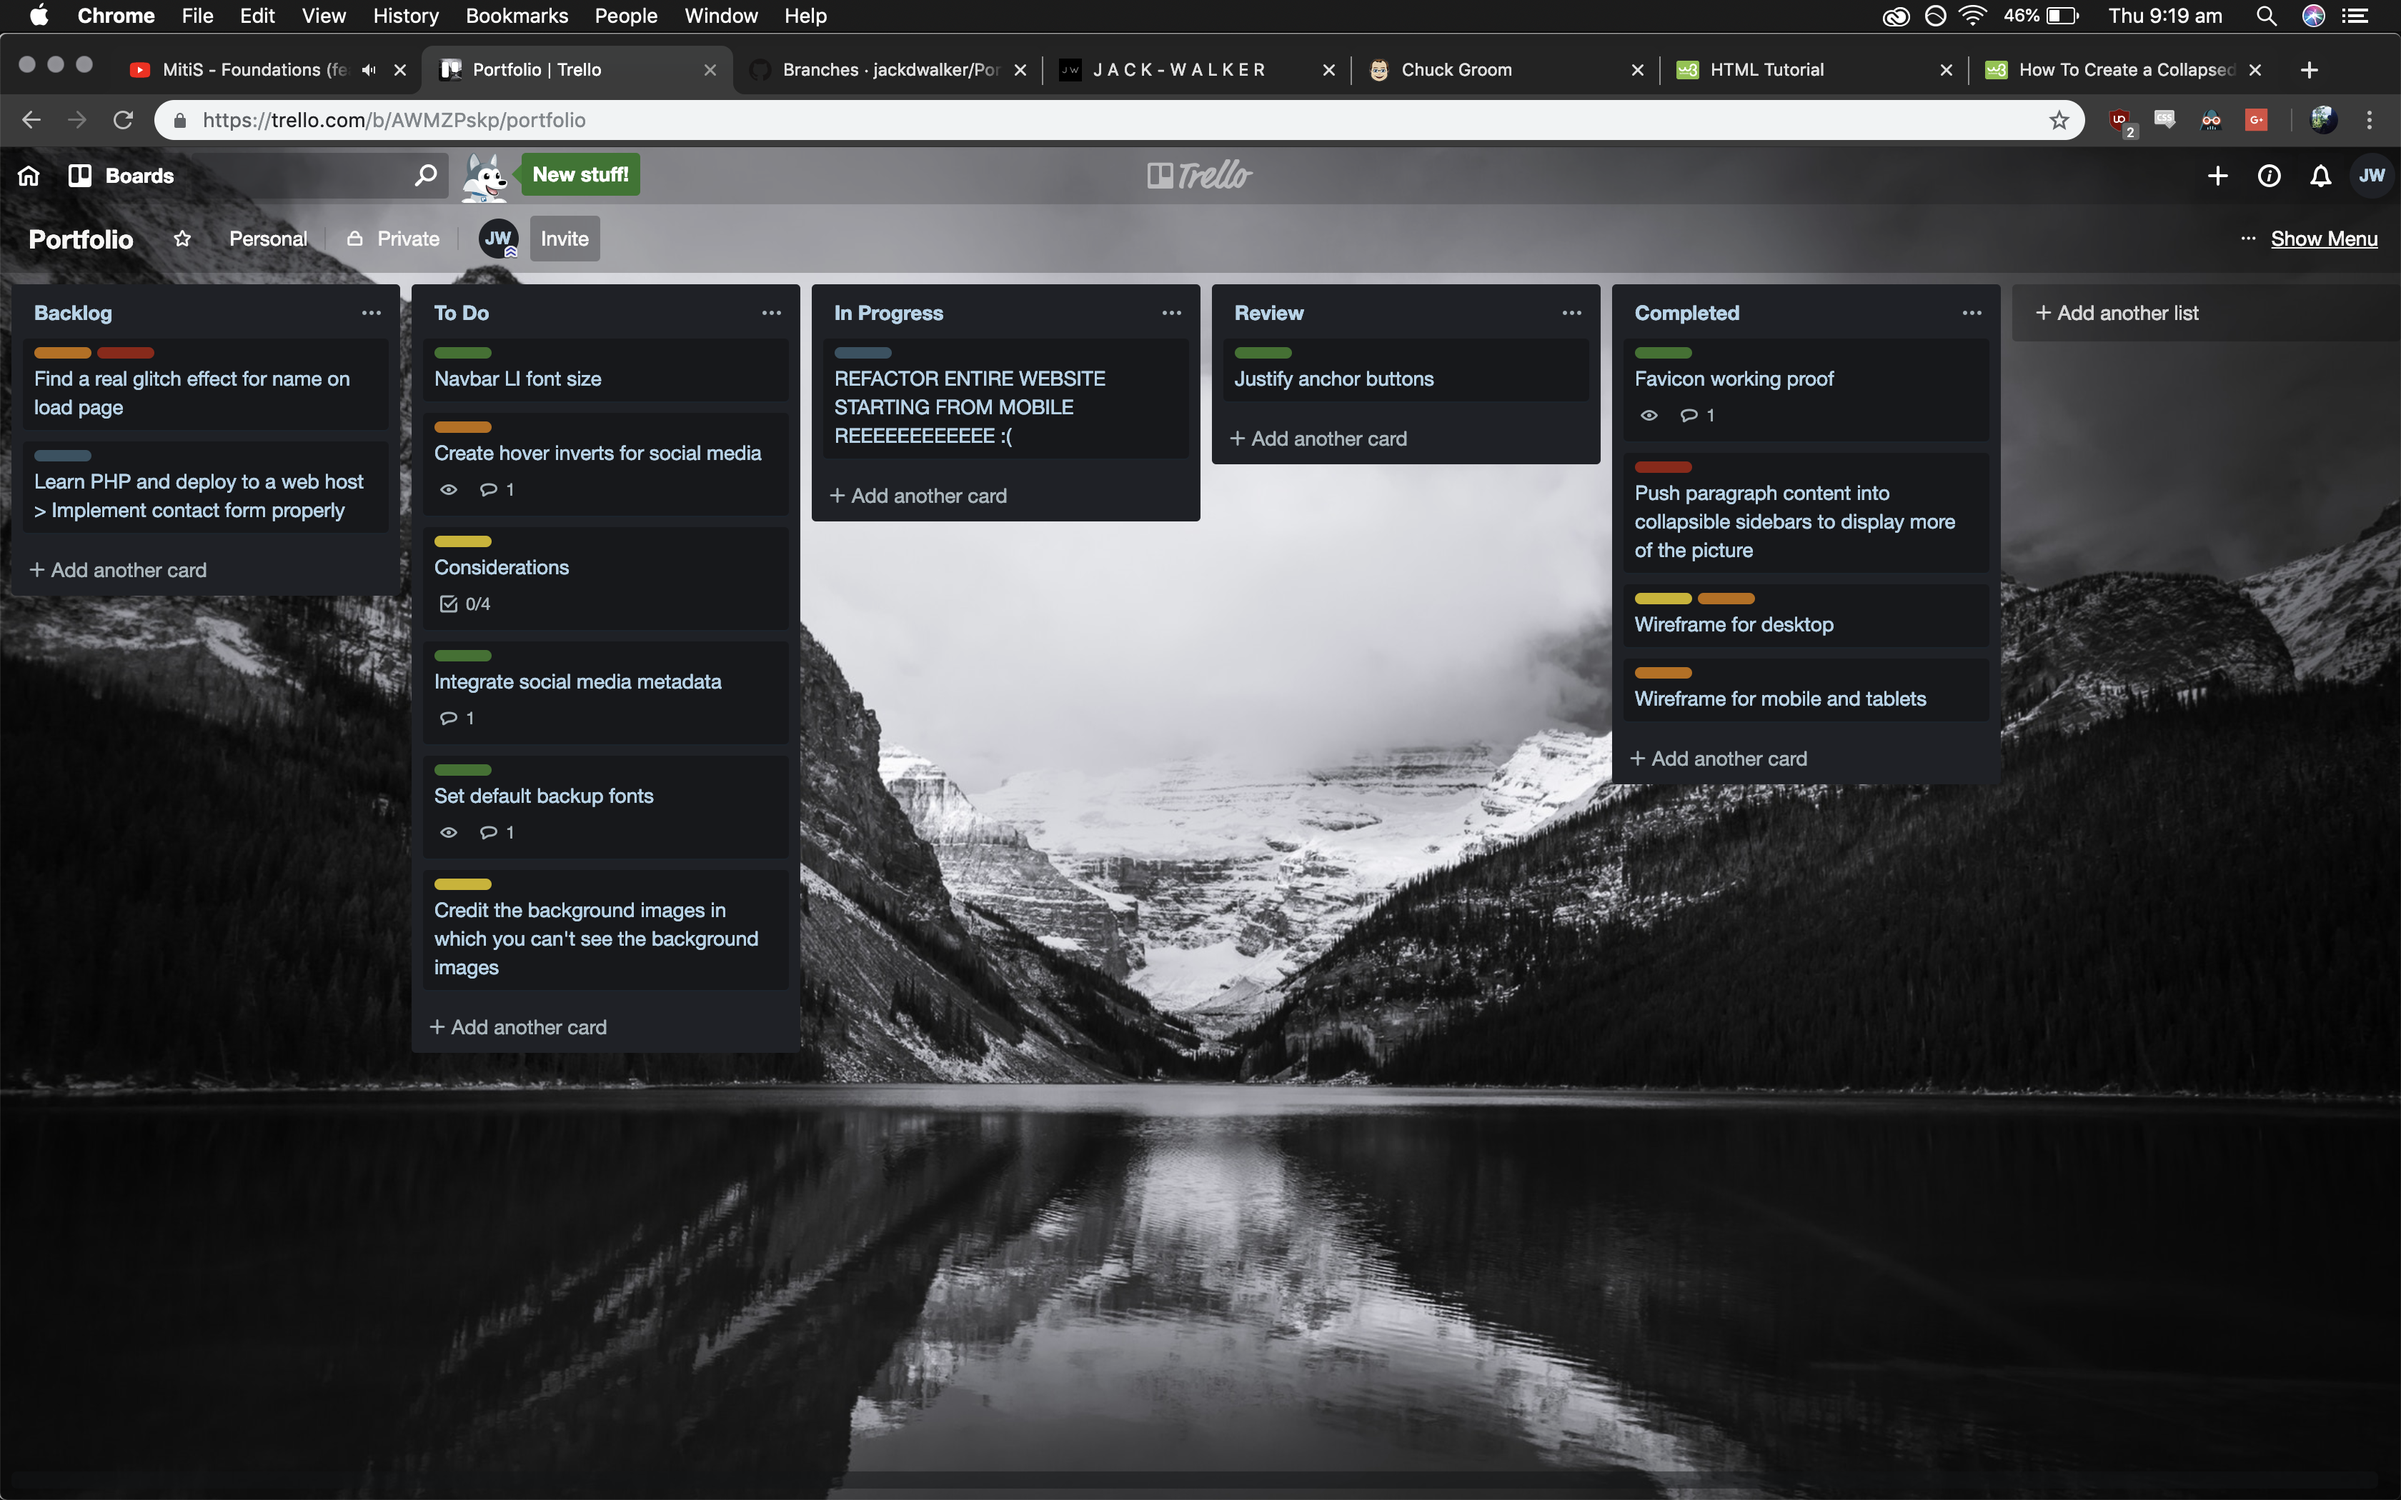
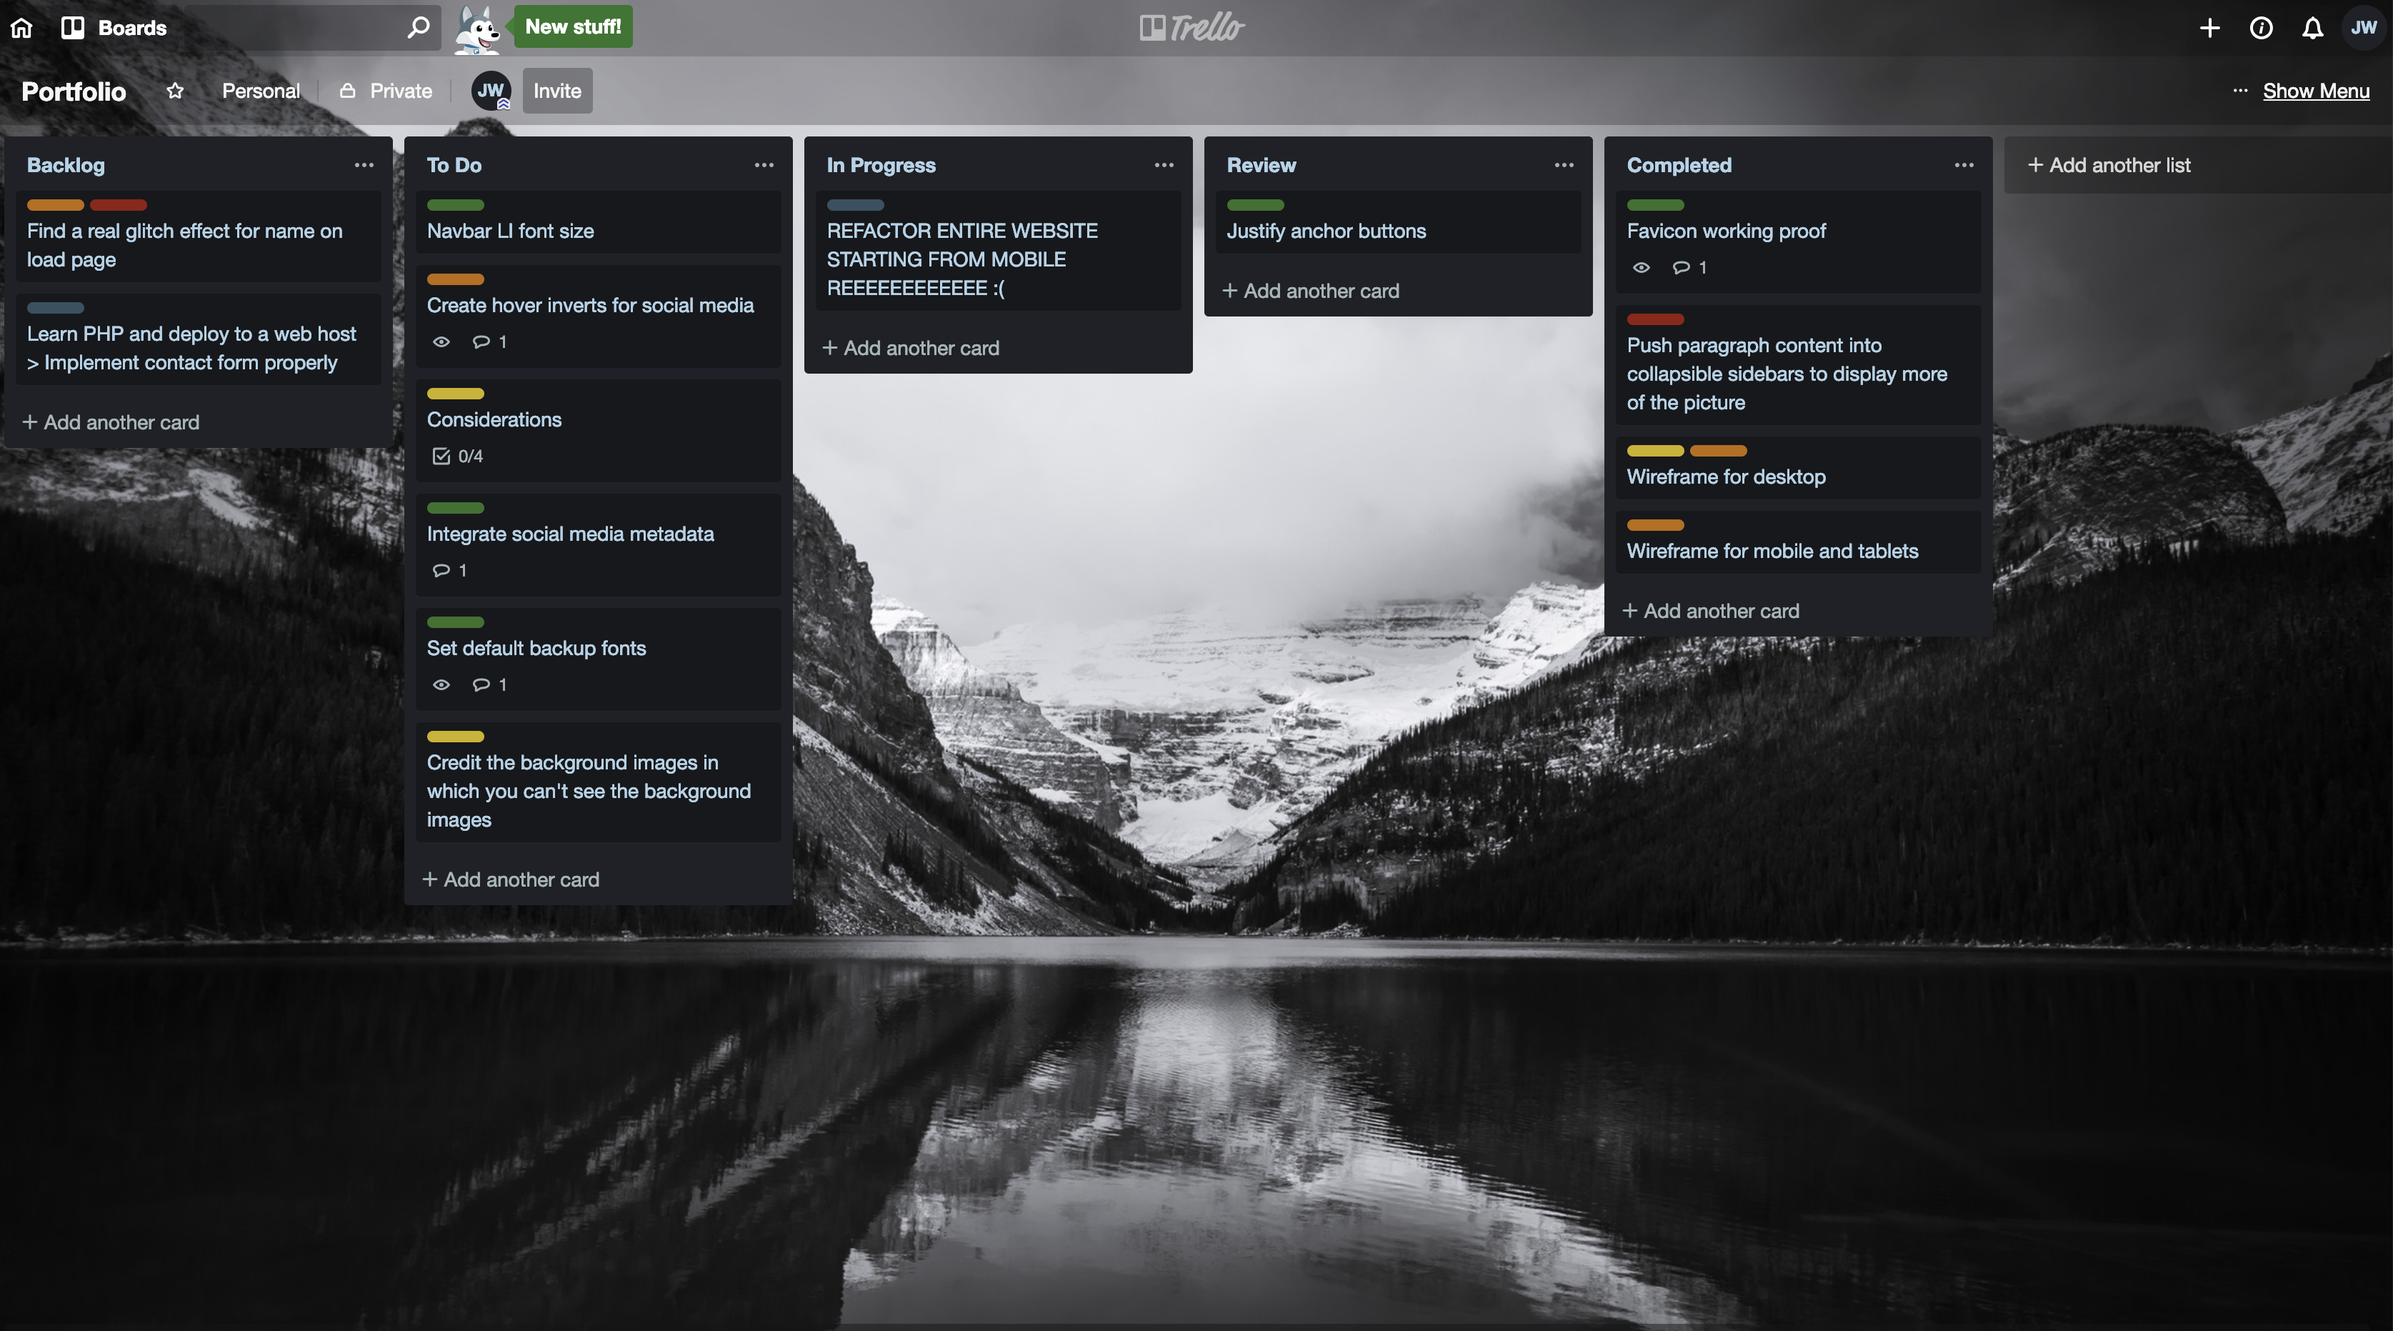
README done except short answer

diff --git a/README.md b/README.md
@@ -104,9 +104,41 @@ I came into the bootcamp with a small amount of background knowledge in HTML/CSS
 So I went back to the drawing board and made wireframes detailing how I wanted to restructure my website to work on both mobile and tablet devices. I started from scratch refactoring my desktop CSS into SCSS, and re-writing my whole HTML base for a mobile device and working up from there. 
 
 ### Project Timeline
+- Mar 11: Moodboarding
+- Mar 12-15: Initial desktop site design
+- Mar 18-19: Final touches on first version of desktop site
+- Mar 20: Wireframing and beginning to visualise how to make my website responsive
+- Mar 21: Began the process of building mobile-up and refactoring my CSS into SCSS
+- Mar 22-23: Most of the progress for my second website iteration was completed
+- Mar 24: Documentation (definitely should've done this in advance - my time management sucks) and final touches on website
 
+Image documentation showing Trello progression, Inspector audits, Favicon implementation, etc were created at different stages of the development process. Only the text component of the documentation was done post-development.
 
-### Trello
+### Project Management
+
+I used Trello to dissect my website components into different tasks, and assign myself rough time-frames for completion. My time-frames were pretty out, but I feel I have a better handle on how to time-manage myself in the future now.
+
+[Portfolio Trello Board](https://trello.com/b/AWMZPskp/portfolio)
+
+#### Trello Progress
+
+Start of March 20th:
+![picture](docs/Trello-Mar-20-Start-of-Day.png)
+
+End of March 20th:
+![picture](docs/Trello-Mar-20-End-of-Day.png)
+
+March 21st:
+![picture](docs/Trello-Mar-21.png)
+
+March 22nd:
+![picture](docs/Trello-Mar-22.png)
+
+March 23rd:
+![picture](docs/Trello-Mar-23.png)
+
+End of Project:
+![picture](docs/Trello-End-of-Project.png)
 
 
 ## Short Answer Q & A:
